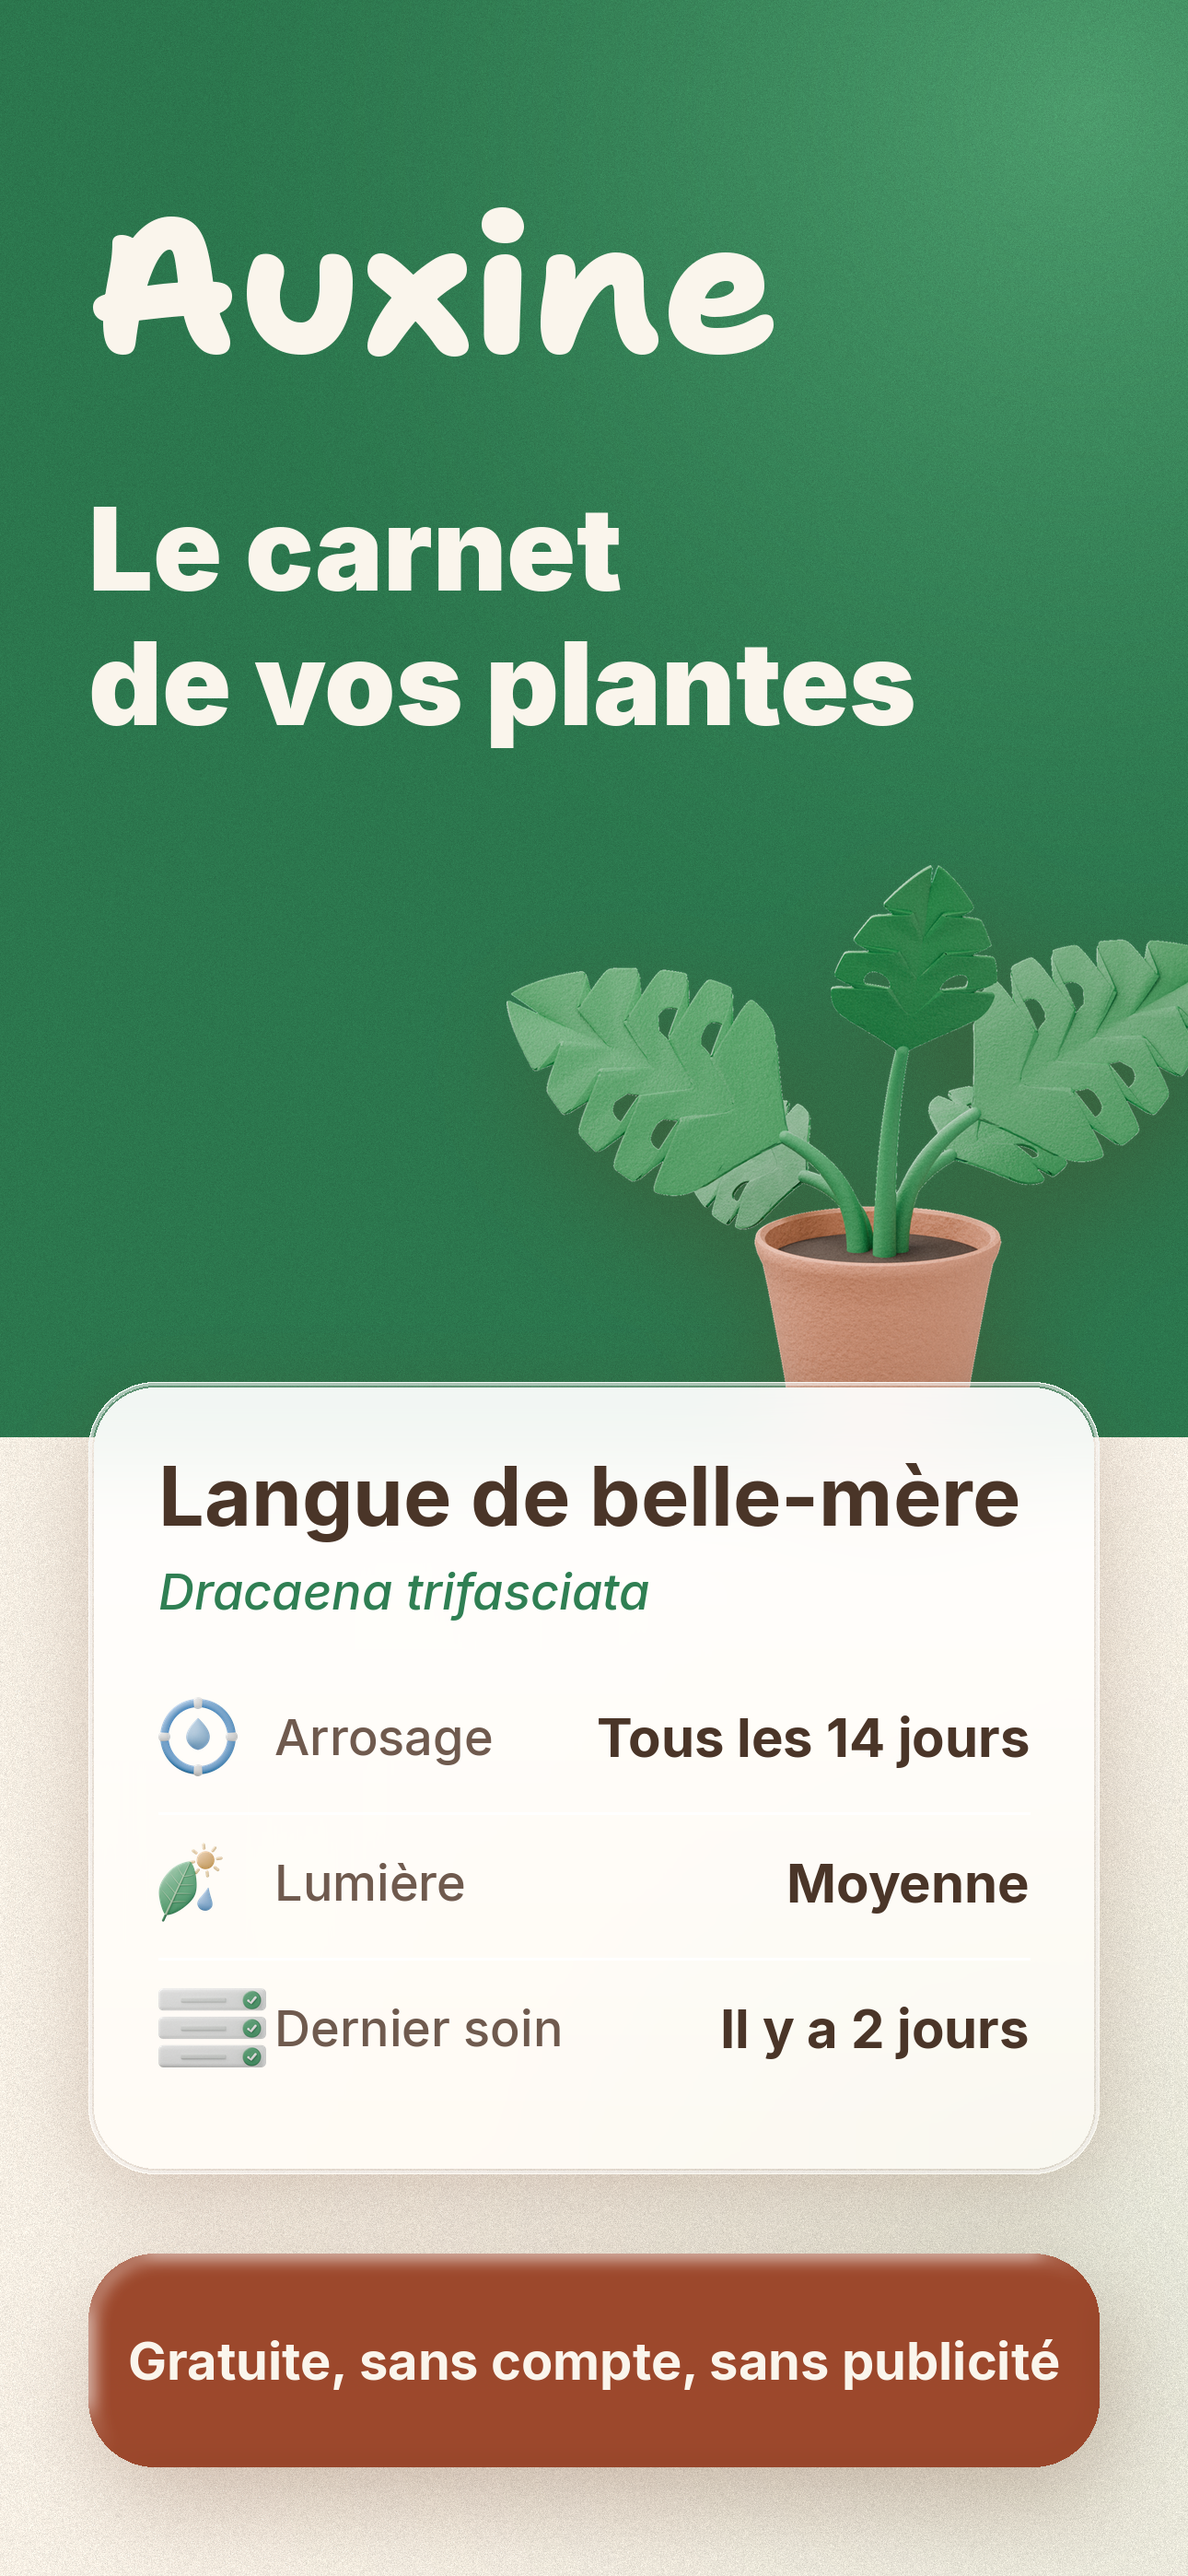
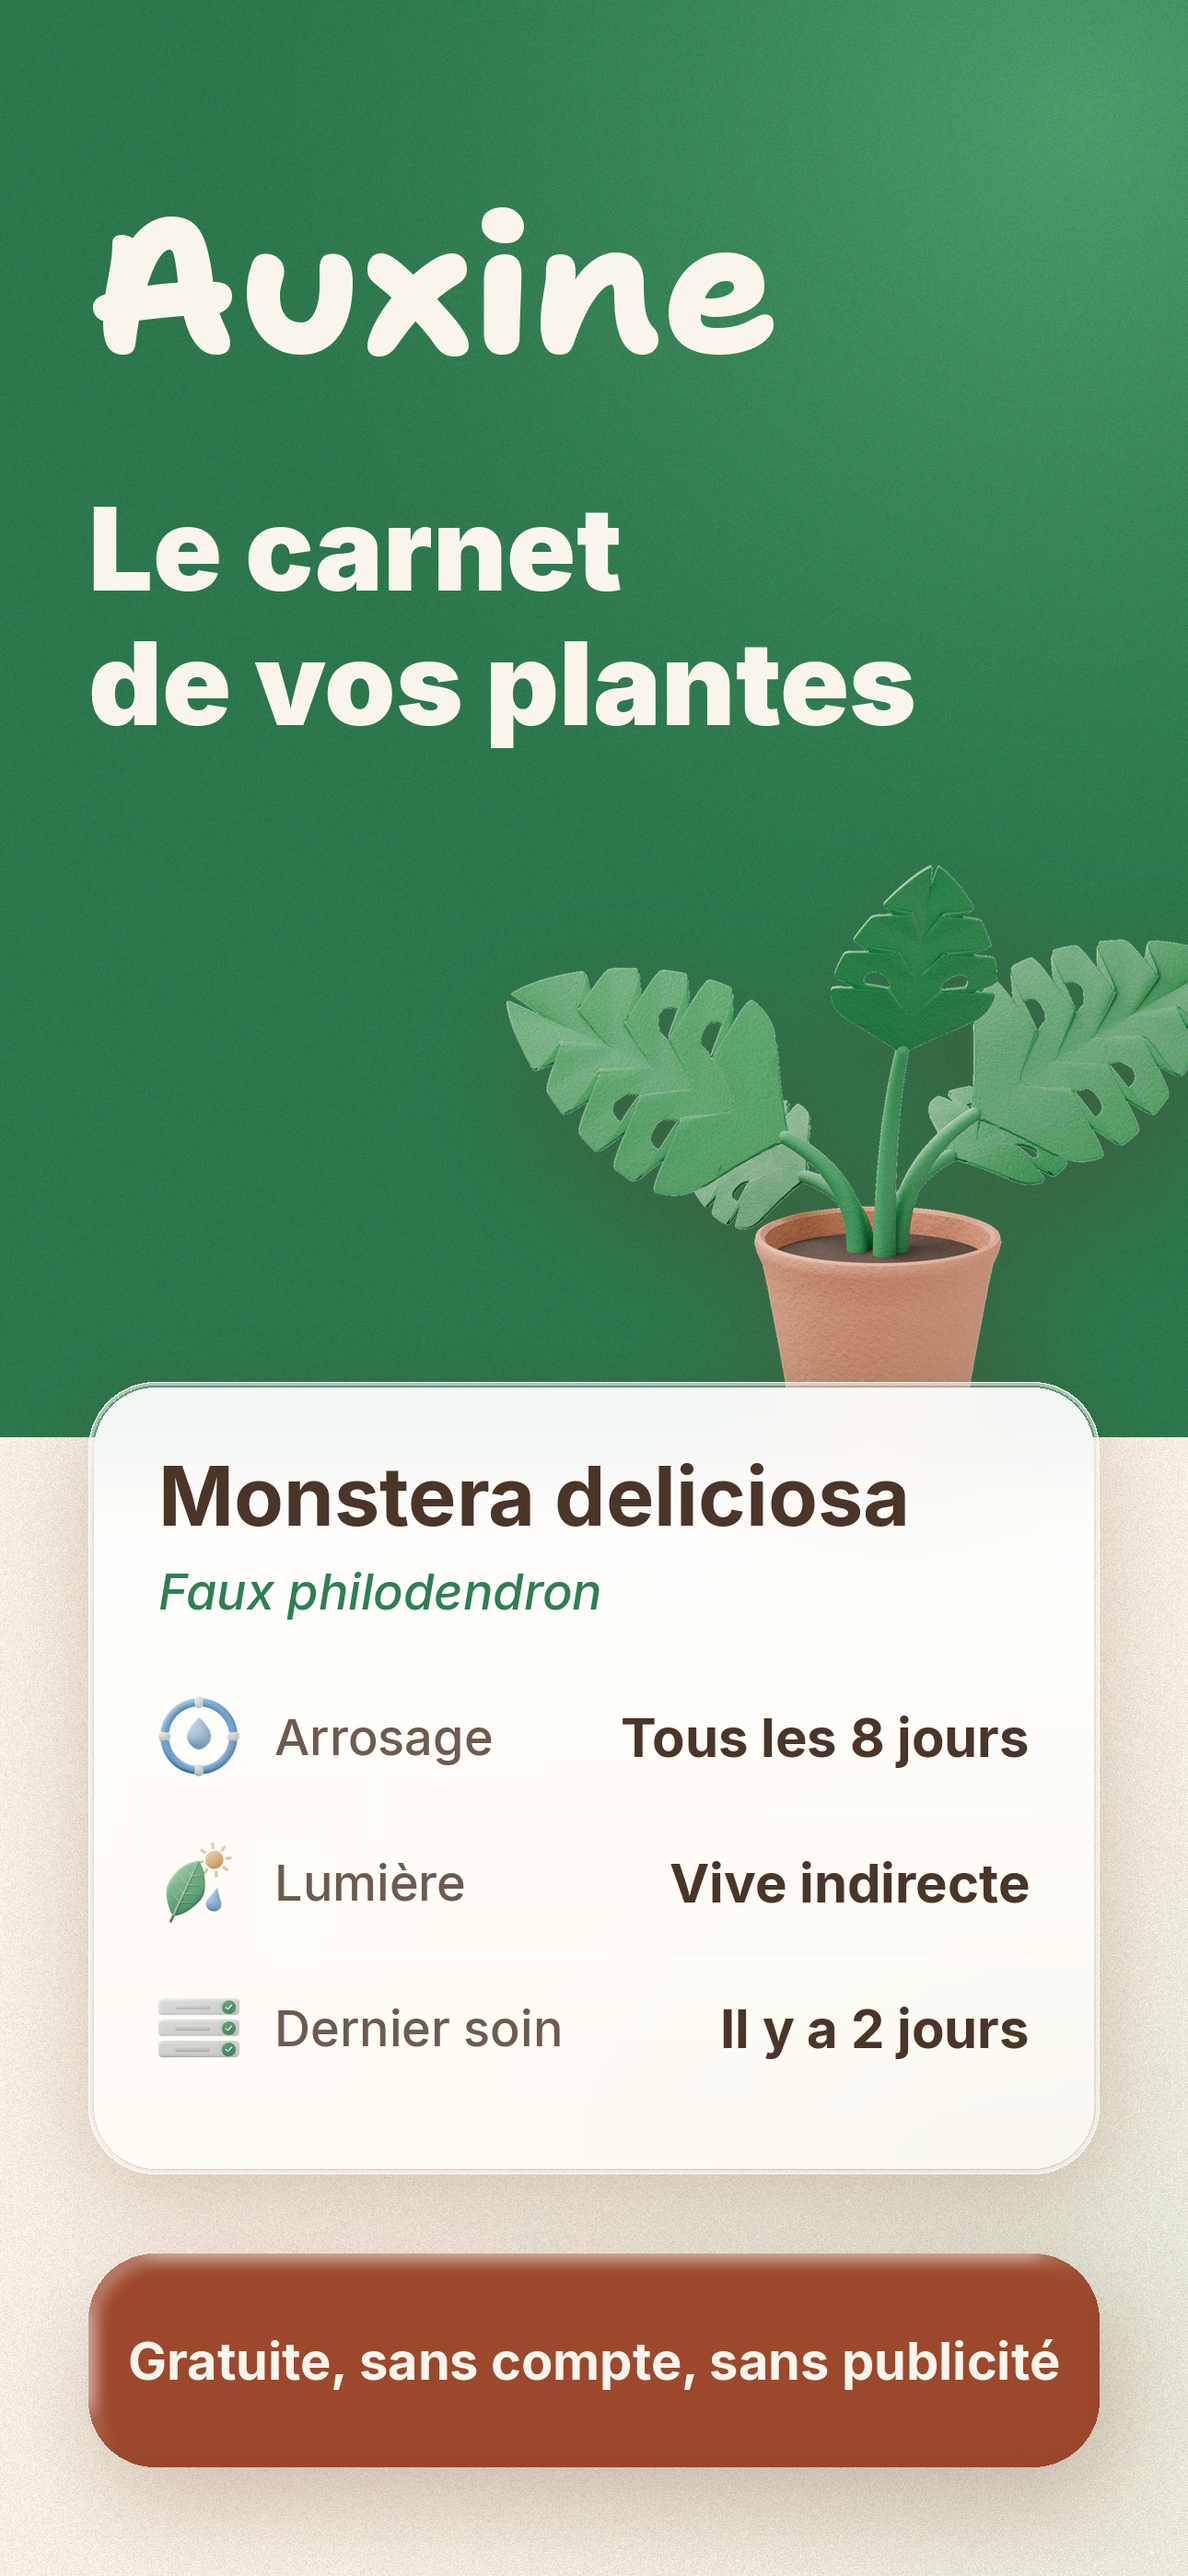
La fiche d'ouverture montre une monstera, et ses lignes s'alignent
L'espèce devient la monstera : tout le monde la reconnaît, et c'est celle
de l'icône posée juste au-dessus. Ce qu'en dit la carte vient du profil de
soin de l'app — tous les 8 jours l'été, lumière vive indirecte — et son
nom courant du catalogue livré.

Deux détails : les objets des lignes tiennent dans un carré au lieu d'être
calés sur leur hauteur, si bien que les larges ne mordent plus sur le
libellé ; et le filet de séparation part du libellé, comme dans les listes
de l'app, au lieu de traverser sous les objets.

Claude-Session: https://claude.ai/code/session_01NWyBLWU43KdbaGJZsmnCAH

diff --git a/store/compose.py b/store/compose.py
@@ -423,22 +423,22 @@ def ident_sheet(lang, width=1170):
 COVER = {
     'fr': {
         'claim': ['Le carnet', 'de vos plantes'],
-        'name': 'Langue de belle-mère',
-        'species': 'Dracaena trifasciata',
+        'name': 'Monstera deliciosa',
+        'species': 'Faux philodendron',
         'rows': [
-            ('assets/onboarding/onboarding_3.png', 'Arrosage', 'Tous les 14 jours'),
-            ('assets/problems/clay_abiotique.webp', 'Lumière', 'Moyenne'),
+            ('assets/onboarding/onboarding_3.png', 'Arrosage', 'Tous les 8 jours'),
+            ('assets/problems/clay_abiotique.webp', 'Lumière', 'Vive indirecte'),
             ('assets/onboarding/onboarding_2.png', 'Dernier soin', 'Il y a 2 jours'),
         ],
         'footer': 'Gratuite, sans compte, sans publicité',
     },
     'en': {
         'claim': ['The journal', 'of your plants'],
-        'name': 'Snake plant',
-        'species': 'Dracaena trifasciata',
+        'name': 'Monstera deliciosa',
+        'species': 'Swiss cheese plant',
         'rows': [
-            ('assets/onboarding/onboarding_3.png', 'Watering', 'Every 14 days'),
-            ('assets/problems/clay_abiotique.webp', 'Light', 'Medium'),
+            ('assets/onboarding/onboarding_3.png', 'Watering', 'Every 8 days'),
+            ('assets/problems/clay_abiotique.webp', 'Light', 'Bright indirect'),
             ('assets/onboarding/onboarding_2.png', 'Last care', '2 days ago'),
         ],
         'footer': 'Free, no account, no ads',
@@ -489,13 +489,18 @@ def glass(img, box, radius=72, blur=70, alpha=0.46):
     img.alpha_composite(pane, (x, y))
 
 
-def crisp(path, height=None, width=None):
+def crisp(path, height=None, width=None, box=None):
     """Un objet d'argile à sa taille, jamais au-delà : ces images font 640 ou
     1024 pixels, et les étirer plus loin les fait fondre — c'est ce qui
     donnait à la fiche son air bon marché."""
     im = Image.open(os.path.join(ROOT, path)).convert('RGBA')
     im = im.crop(im.getbbox())
-    if height:
+    if box:
+        # Tenir dans un carré : les objets n'ont pas tous la même allure, et
+        # caler sur la hauteur ferait déborder les larges sur le libellé.
+        scale = box / max(im.width, im.height)
+        width, height = int(im.width * scale), int(im.height * scale)
+    elif height:
         width = int(im.width * height / im.height)
     else:
         height = int(im.height * width / im.width)
@@ -537,10 +542,10 @@ def cover(lang):
     yy = gy + pad + 234
     for i, (icon, label, value) in enumerate(t['rows']):
         if i:
-            d.line((gx + pad, yy, gx + gw - pad, yy), fill=(255, 255, 255, 150), width=3)
+            d.line((gx + pad + 126, yy, gx + gw - pad, yy), fill=(255, 255, 255, 160), width=3)
         yy += 26
-        obj = crisp(icon, height=86)
-        img.alpha_composite(obj, (gx + pad, yy + (98 - obj.height) // 2))
+        obj = crisp(icon, box=88)
+        img.alpha_composite(obj, (gx + pad + (88 - obj.width) // 2, yy + (98 - obj.height) // 2))
         d = ImageDraw.Draw(img)
         d.text((gx + pad + 126, yy + 49), label, font=font('Medium', 54), fill=INK2, anchor='lm')
         d.text((gx + gw - pad, yy + 49), value, font=font('Bold', 58), fill=INK, anchor='rm')

diff --git a/store/README.md b/store/README.md
@@ -6,7 +6,11 @@ de page de l'app, un grand titre en haut à gauche, puis des cartes en
 colonne. Une bande sauge porte le nom tracé à la main et la revendication
 en gras ; la plante de l'icône se pose sur son bord ; une carte de verre
 dépoli mord sur la bande et porte ce que l'app dit d'une plante ; une
-carte pleine de terre cuite dit ce qui est gratuit. Rien de plus — une
+carte pleine de terre cuite dit ce qui est gratuit. L'espèce montrée est la
+monstera, celle que tout le monde reconnaît et celle de l'icône ; son
+arrosage et sa lumière sont ceux de son profil de soin
+(`data/species/care_profiles.dart`), son nom courant celui du catalogue
+livré. Rien de plus — une
 fiche chargée ne se lit pas dans une grille de vignettes.
 
 Les objets d'argile ne sont jamais agrandis au-delà de leur taille native
